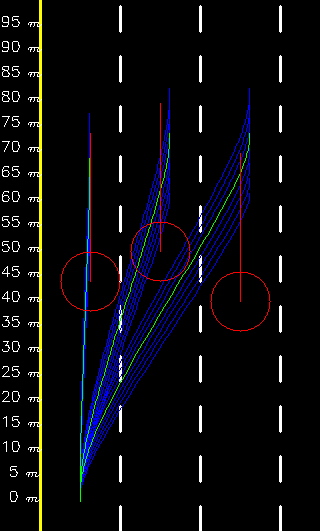
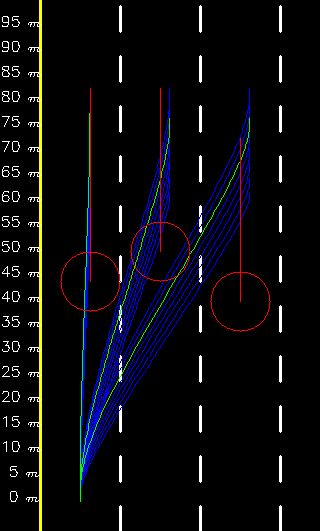
Correct main test after update PTG class

diff --git a/src/main_test.cpp b/src/main_test.cpp
@@ -27,23 +27,23 @@ int main()
 
   Ptg* ptg = new Ptg();
   Graph* graph = Graph::getInstance();
-  struct trajectory best1 = ptg->PTG(&start_state, target_id_1, &delta1, T, &predictions);
-  double cost1 = ptg->calculate_cost(&best1, target_id_1, &delta1, TIME_PLANNING, &predictions);
-  struct trajectory best2 = ptg->PTG(&start_state, target_id_1, &delta2, T, &predictions);
-  double cost2 = ptg->calculate_cost(&best2, target_id_1, &delta2, TIME_PLANNING, &predictions);
-  struct trajectory best3 = ptg->PTG(&start_state, target_id_1, &delta3, T, &predictions);
-  double cost3 = ptg->calculate_cost(&best3, target_id_1, &delta3, TIME_PLANNING, &predictions);
+  struct trajectory* best1 = ptg->PTG(&start_state, target_id_1, &delta1, T, &predictions);
+  double cost1 = ptg->calculate_cost(best1, target_id_1, &delta1, TIME_PLANNING, &predictions);
+  struct trajectory* best2 = ptg->PTG(&start_state, target_id_1, &delta2, T, &predictions);
+  double cost2 = ptg->calculate_cost(best2, target_id_1, &delta2, TIME_PLANNING, &predictions);
+  struct trajectory* best3 = ptg->PTG(&start_state, target_id_1, &delta3, T, &predictions);
+  double cost3 = ptg->calculate_cost(best3, target_id_1, &delta3, TIME_PLANNING, &predictions);
   printf("Cost 1: %f\n", cost1);
   printf("Cost 2: %f\n", cost2);
   printf("Cost 3: %f\n", cost3);
 
 #ifdef VISUAL_DEBUG
-  graph->plot_trajectory(0, &best1, Scalar(0, 255, 0));  
-  graph->plot_trajectory(0, &best2, Scalar(0, 255, 0));  
-  graph->plot_trajectory(0, &best3, Scalar(0, 255, 0));  
-  graph->plot_vehicle(0, best1.T, Scalar(0, 0, 255), &vehicle1);
-  graph->plot_vehicle(0, best3.T, Scalar(0, 0, 255), &vehicle2);
-  graph->plot_vehicle(0, best3.T, Scalar(0, 0, 255), &vehicle3);
+  graph->plot_trajectory(0, best1, Scalar(0, 255, 0));
+  graph->plot_trajectory(0, best2, Scalar(0, 255, 0));
+  graph->plot_trajectory(0, best3, Scalar(0, 255, 0));
+  graph->plot_vehicle(0, best1->T, Scalar(0, 0, 255), &vehicle1);
+  graph->plot_vehicle(0, best2->T, Scalar(0, 0, 255), &vehicle2);
+  graph->plot_vehicle(0, best3->T, Scalar(0, 0, 255), &vehicle3);
   while (true)
   {
     uint8_t k = graph->show_trajectory();
